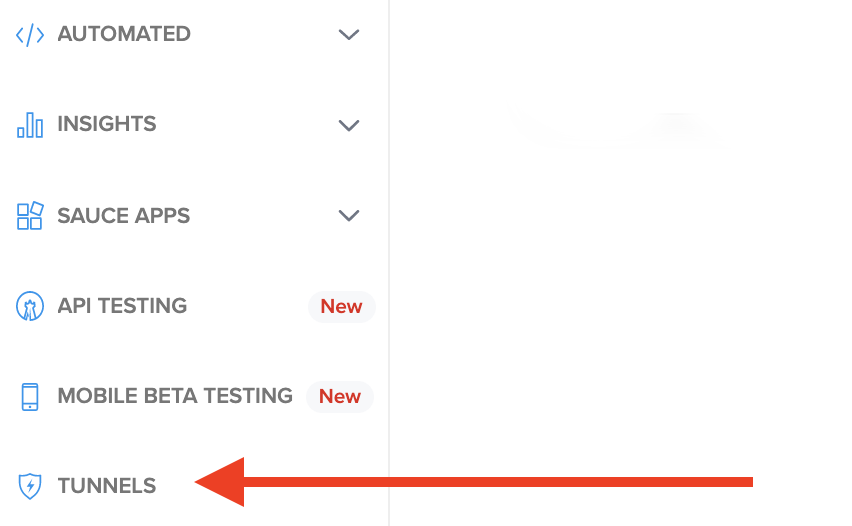
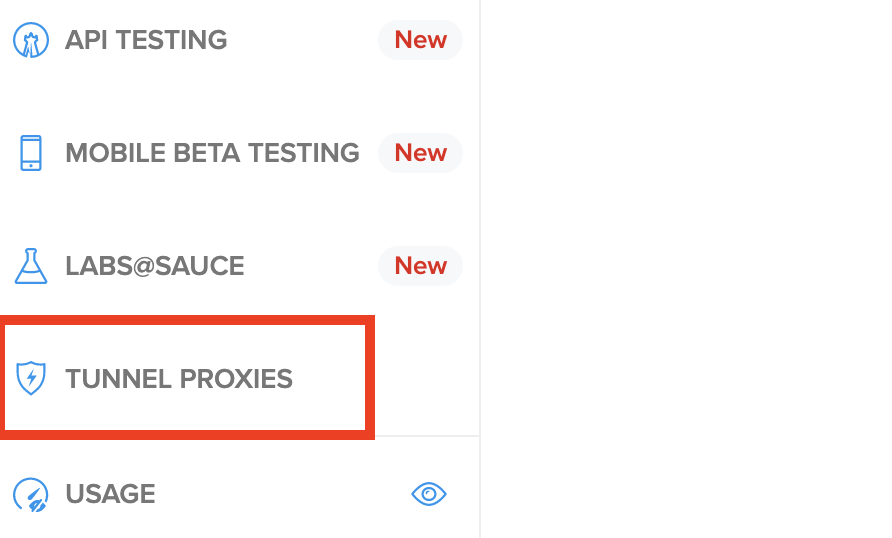
SC QS clarifications, updated screenshots

diff --git a/docs/secure-connections/sauce-connect/quickstart.md b/docs/secure-connections/sauce-connect/quickstart.md
@@ -15,15 +15,13 @@ Sauce Connect is required to run a local test on an app or website located behin
 * A Sauce Labs account ([Log in](https://accounts.saucelabs.com/am/XUI/#login/) or sign up for a [free trial license](https://saucelabs.com/sign-up)).
 * The localhost URL for your site or app under test.
 
-:::caution Always use the latest version
-Using older Sauce Connect versions may impact your ability to launch a tunnel or cause other technical issues. Download the latest version [here](/secure-connections/sauce-connect/installation/).
-:::
-
-
 ## Start Tunnel
 
-1. Download and extract the Sauce Connect Proxy client folder on your machine: [Mac](https://saucelabs.com/downloads/sc-4.7.1-osx.zip) | [Windows](https://saucelabs.com/downloads/sc-4.7.1-win32.zip) | [Linux](https://saucelabs.com/downloads/sc-4.7.1-linux.tar.gz).
-2. Move the folder to your machine's [home directory](https://en.wikipedia.org/wiki/Home_directory).
+1. Download the Sauce Connect Proxy client folder on your machine: [Mac](https://saucelabs.com/downloads/sc-4.7.1-osx.zip) | [Windows](https://saucelabs.com/downloads/sc-4.7.1-win32.zip) | [Linux](https://saucelabs.com/downloads/sc-4.7.1-linux.tar.gz).
+:::caution Always use the latest version
+Using older Sauce Connect versions may impact your ability to launch a tunnel or cause other technical issues.
+:::
+2. Extract the .zip file and move the folder to your machine's [home directory](https://en.wikipedia.org/wiki/Home_directory).
 3. Open your terminal and navigate to the Sauce Connect Proxy client bin directory.
   <Tabs
     defaultValue="Mac/Linux"
@@ -47,21 +45,21 @@ Using older Sauce Connect versions may impact your ability to launch a tunnel or
   </TabItem>
   </Tabs>
 4. Log in to Sauce Labs.
-5. Go to the **Tunnels** page.<br/><img src={useBaseUrl('img/sauce-connect/tunnelsPage.png')} alt="Sauce Connect Proxy Tunnels page" width="450"/>
-6. Go to **STEP 3: Configure & Authenticate** and copy the code snippet.<br/><img src={useBaseUrl('img/sauce-connect/configureAuth.png')} alt="Sauce Connect Proxy Tunnels page snippet" width="500"/>
+5. Go to the **Tunnel Proxies** page.<br/><img src={useBaseUrl('img/sauce-connect/tunnelsPage.png')} alt="Sauce Connect Proxy Tunnels page" width="400"/>
+6. Under step 2, **Authenticate & connect**, copy the code snippet.<br/><img src={useBaseUrl('img/sauce-connect/configureAuth.png')} alt="Sauce Connect Proxy Tunnels page snippet" width="300"/>
 <details><summary>What is this?</summary>
 This snippet contains your authentication credentials (username and access key), selects a Sauce Labs Data Center, and applies a name to your tunnel. Optionally, you can rename your tunnel by replacing the value after the <code>--tunnel-name</code> flag.
 </details>
-7. From your terminal, paste the snippet and run it. This will launch the tunnel.
+7. Paste the snippet into your terminal and run it. This will launch the tunnel.
 
 ## Verify Connection
 
 To confirm your tunnel is up, look for the confirmation message in your terminal:<br/><img src={useBaseUrl('img/sauce-connect/cli-tunnel-confirmation.png')} alt="Sauce Connect Tunnel Success" width="350"/>
 
-Alternatively, you can check your list of active tunnels on the **Tunnels** page:<br/><img src={useBaseUrl('img/sauce-connect/tunnelsuccess-ui.png')} alt="Sauce Connect Tunnel Success" width="500"/>
+Alternatively, you can check your list of active tunnels on the **Tunnel Proxies** page:<br/><img src={useBaseUrl('img/sauce-connect/tunnelsuccess-ui.png')} alt="Sauce Connect Tunnel Success" width="500"/>
 
 
-## Run a Live Local Test
+## Run Test
 
 With your tunnel up and running, try doing a Live <!--or Automated--> local test.
 
@@ -178,18 +176,13 @@ With your tunnel up and running, try doing a Live <!--or Automated--> local test
 
 When you've finished testing, you can stop your tunnel from the terminal where Sauce Connect is running by entering Ctrl+C.<br/><img src={useBaseUrl('img/sauce-connect/cli-tunnel-stop.png')} alt="Sauce Connect Proxy Tunnels page snippet" width="500"/>
 
-Alternatively, you can go to the **Tunnels** page and click one of the **Stop Tunnels** buttons.<br/><img src={useBaseUrl('img/sauce-connect/tunnelstop-ui.png')} alt="Sauce Connect Tunnel Stop" width="800"/>
+Alternatively, you can go to the **Tunnel Proxies** page and click one of the **Stop Tunnels** buttons.<br/><img src={useBaseUrl('img/sauce-connect/tunnelstop-ui.png')} alt="Sauce Connect Tunnel Stop" width="800"/>
 
 
 ## More Information
 
-### Related Links
+* [Sauce Connect Proxy CLI](/dev/cli/sauce-connect-proxy/)
+* [Setting Sauce Labs Environment Variables](/secure-connections/sauce-connect/setup-configuration/environment-variables/)
 * [Uploading and Managing Mobile Apps in Sauce Labs](/mobile-apps/app-storage)
 * [Live Testing Web Apps](/web-apps/live-testing/live-cross-browser-testing/)
 * [Live Testing Mobile Apps](/mobile-apps/live-testing/live-mobile-app-testing/)
-* [Setting Sauce Labs Environment Variables](/secure-connections/sauce-connect/setup-configuration/environment-variables/)
-
-### Learning Resources
-* [Sauce School | Sauce Connect Proxy Course](https://training.saucelabs.com/sauceconnect/)
-* [Sauce Connect Proxy CLI](/dev/cli/sauce-connect-proxy/)
-* [Sauce Connect Proxy Basic Configuration](/secure-connections/sauce-connect/setup-configuration/basic-setup/)
